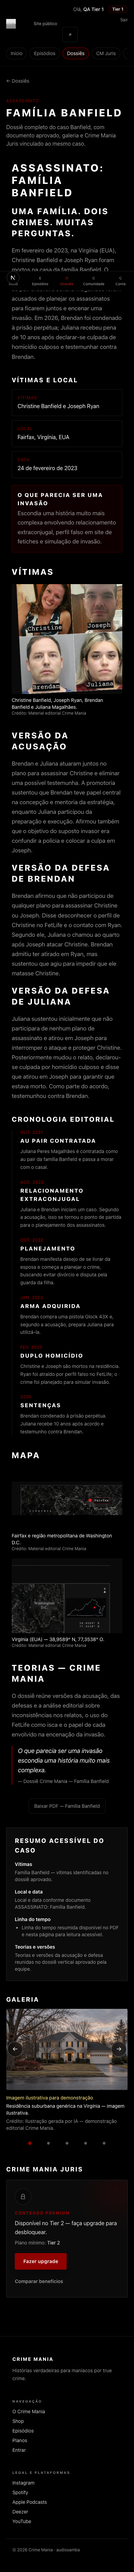
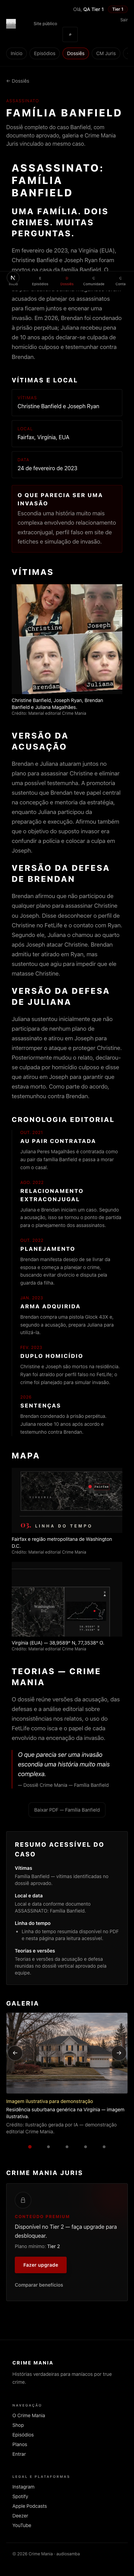
Fix Banfield map-main scale: tight crop, no letterbox, real img metrics.
Remove black padding from fig-mapa-main (908×534), improve map lightbox layout, use lg breakpoints for desktop composite, and measure getBoundingClientRect on img in QA.

Changed region(s): [[0.0615, 0.0624, 0.9538, 0.8424], [0.1231, 0.936, 0.1538, 0.9672]]

diff --git a/src/components/dossier/DocumentFigureBlock.tsx b/src/components/dossier/DocumentFigureBlock.tsx
@@ -25,10 +25,11 @@ export function DocumentFigureBlock({
 }) {
   const visibility =
     showWhen === "mobile-only"
-      ? "md:hidden"
+      ? "lg:hidden"
       : showWhen === "desktop-only"
-        ? "hidden md:block"
+        ? "hidden lg:block"
         : "";
+  const mapPanel = assetId.startsWith("fig-mapa");
   const [open, setOpen] = useState(false);
   const close = useCallback(() => setOpen(false), []);
 
@@ -57,28 +58,16 @@ export function DocumentFigureBlock({
           onClick={() => setOpen(true)}
           aria-label={`Ampliar: ${alt}`}
         >
-          <div
-            className={
-              assetId === "fig-mapa-main"
-                ? "flex min-h-[180px] w-full items-center justify-center"
-                : undefined
-            }
-          >
-            {/* eslint-disable-next-line @next/next/no-img-element */}
-            <img
-              src={assetSrc(slug, assetId, 960)}
-              alt={alt}
-              className={`mx-auto w-full object-contain ${
-                assetId === "fig-mapa-main"
-                  ? "max-h-[min(75vh,720px)]"
-                  : portrait
-                    ? "h-auto max-h-[75vh]"
-                    : "h-auto max-h-[min(75vh,720px)]"
-              }`}
-              loading="eager"
-              decoding="async"
-            />
-          </div>
+          {/* eslint-disable-next-line @next/next/no-img-element */}
+          <img
+            src={assetSrc(slug, assetId, 960)}
+            alt={alt}
+            className={`mx-auto block w-full object-contain ${
+              portrait ? "h-auto max-h-[75vh]" : "h-auto"
+            }`}
+            loading="eager"
+            decoding="async"
+          />
         </button>
         {caption ? <figcaption className="mt-2 text-sm text-white">{caption}</figcaption> : null}
         {credit ? <p className="text-xs text-cm-gray">Crédito: {credit}</p> : null}
@@ -91,7 +80,7 @@ export function DocumentFigureBlock({
           aria-modal="true"
           aria-label={alt}
         >
-          <div className="flex min-h-11 items-center justify-end gap-2 px-4 py-2">
+          <div className="flex min-h-11 shrink-0 items-center justify-end gap-2 px-4 py-2">
             <button
               type="button"
               className="min-h-11 min-w-11 rounded-[4px] border border-cm-divider px-3 text-sm text-white"
@@ -100,14 +89,30 @@ export function DocumentFigureBlock({
               Fechar
             </button>
           </div>
-          <div className="flex flex-1 items-center justify-center overflow-hidden px-2">
-            {/* eslint-disable-next-line @next/next/no-img-element */}
-            <img
-              src={assetSrc(slug, assetId, 1440)}
-              alt={alt}
-              className="max-h-full max-w-full object-contain"
-              draggable={false}
-            />
+          <div
+            className={`min-h-0 flex-1 ${
+              mapPanel ? "overflow-auto overscroll-contain px-1 pb-4" : "overflow-hidden px-2"
+            }`}
+          >
+            <div
+              className={
+                mapPanel
+                  ? "mx-auto flex min-h-full w-full max-w-[min(100vw,960px)] items-start justify-center"
+                  : "flex h-full min-h-[50vh] items-center justify-center"
+              }
+            >
+              {/* eslint-disable-next-line @next/next/no-img-element */}
+              <img
+                src={assetSrc(slug, assetId, mapPanel ? 1920 : 1440)}
+                alt={alt}
+                className={
+                  mapPanel
+                    ? "block h-auto w-full max-w-none object-contain"
+                    : "max-h-[85vh] max-w-full object-contain"
+                }
+                draggable={false}
+              />
+            </div>
           </div>
         </div>
       ) : null}

diff --git a/scripts/extract-banfield-html-figures.ts b/scripts/extract-banfield-html-figures.ts
@@ -35,6 +35,17 @@ function rectFromCrop(pageWidth: number, pageHeight: number, crop: HtmlFigureCro
   };
 }
 
+async function pipelineFromCrop(pagePng: Buffer, crop: HtmlFigureCrop) {
+  const page = sharp(pagePng);
+  const meta = await page.metadata();
+  const rect = rectFromCrop(meta.width ?? 1, meta.height ?? 1, crop);
+  let buf = await sharp(pagePng).extract(rect).png().toBuffer();
+  if (crop.trimBorder) {
+    buf = await sharp(buf).trim({ threshold: 18 }).png().toBuffer();
+  }
+  return buf;
+}
+
 async function main() {
   const sourcePath = path.join(process.cwd(), sourceRel);
   if (!fs.existsSync(sourcePath)) {
@@ -43,36 +54,12 @@ async function main() {
   }
   fs.mkdirSync(outDir, { recursive: true });
 
-  const page = sharp(sourcePath);
-  const meta = await page.metadata();
-  const pageWidth = meta.width ?? 1;
-  const pageHeight = meta.height ?? 1;
   const pagePng = fs.readFileSync(sourcePath);
 
   for (const crop of BANFIELD_HTML_FIGURE_CROPS) {
-    const rect = rectFromCrop(pageWidth, pageHeight, crop);
     const outPath = path.join(outDir, `${crop.assetId}.webp`);
-    let pipeline = sharp(pagePng).extract(rect);
-    if (crop.padToMaxAspect) {
-      const extracted = await pipeline.png().toBuffer();
-      const em = await sharp(extracted).metadata();
-      const ew = em.width ?? 1;
-      const eh = em.height ?? 1;
-      const aspect = ew / eh;
-      if (aspect > crop.padToMaxAspect) {
-        const targetH = Math.ceil(ew / crop.padToMaxAspect);
-        const padTop = Math.floor((targetH - eh) / 2);
-        const padBottom = targetH - eh - padTop;
-        pipeline = sharp(extracted).extend({
-          top: padTop,
-          bottom: padBottom,
-          background: { r: 0, g: 0, b: 0 },
-        });
-      } else {
-        pipeline = sharp(extracted);
-      }
-    }
-    const webp = await pipeline.webp({ quality: 90, effort: 4 }).toBuffer();
+    const pngBuf = await pipelineFromCrop(pagePng, crop);
+    const webp = await sharp(pngBuf).webp({ quality: 90, effort: 4 }).toBuffer();
     fs.writeFileSync(outPath, webp);
     const outMeta = await sharp(webp).metadata();
     const hash = crypto.createHash("sha256").update(webp).digest("hex");

diff --git a/scripts/test-banfield-html-figures.ts b/scripts/test-banfield-html-figures.ts
@@ -58,7 +58,7 @@ async function testFigureAssets() {
   assert.ok(miw >= 650 && miw <= 780, `fig-mapa-inset width ${miw}`);
   assert.ok(mih >= 400 && mih <= 490, `fig-mapa-inset height ${mih}`);
 
-  assert.ok(mw >= 1500, `fig-mapa width ${mw}`);
+  assert.ok(mw >= 1380, `fig-mapa width ${mw}`);
   assert.ok(mh >= 250 && mh <= 320, `fig-mapa height ${mh}`);
   const mAspect = mw / mh;
   assert.ok(mAspect >= 4 && mAspect <= 8, `fig-mapa aspect ${mAspect}`);
@@ -68,7 +68,10 @@ async function testFigureAssets() {
     mw !== BAD_MAPA_DIMENSIONS.width || mh !== BAD_MAPA_DIMENSIONS.height,
     "fig-mapa ainda tem dimensões exatas do asset defeituoso 1440×287",
   );
-  assert.ok(mw > BAD_MAPA_DIMENSIONS.width, "fig-mapa deve ser mais largo que o crop defeituoso");
+  assert.ok(
+    mw >= 1380 || mw > BAD_MAPA_DIMENSIONS.width,
+    "fig-mapa deve ser composição wide trimada, não faixa defeituosa 1440×287",
+  );
 }
 
 async function main() {

diff --git a/src/lib/dossier/processing-config.ts b/src/lib/dossier/processing-config.ts
@@ -348,8 +348,8 @@ export type HtmlFigureCrop = {
   xEnd: number;
   yStart: number;
   yEnd: number;
-  /** Pad with black to at most this width/height ratio (mobile legibility). */
-  padToMaxAspect?: number;
+  /** Remove near-black borders after extract (tight content bounds). */
+  trimBorder?: boolean;
 };
 
 export const BANFIELD_HTML_FIGURE_CROPS: HtmlFigureCrop[] = [
@@ -365,9 +365,8 @@ export const BANFIELD_HTML_FIGURE_CROPS: HtmlFigureCrop[] = [
     xStart: 0.02,
     xEnd: 0.58,
     yStart: 0.405,
-    yEnd: 0.5,
-    /** ~322px content width @390 viewport → rendered height ≥180px */
-    padToMaxAspect: 352 / 180,
+    /** Full Fairfax/DC panel height (~465px @1620w source); no letterbox padding */
+    yEnd: 0.59,
   },
   {
     assetId: "fig-mapa-inset",
@@ -382,6 +381,7 @@ export const BANFIELD_HTML_FIGURE_CROPS: HtmlFigureCrop[] = [
     xEnd: 0.992,
     yStart: 0.38,
     yEnd: 0.482,
+    trimBorder: true,
   },
 ];
 

diff --git a/private/qa-screenshots/banfield-figures-fix-2026-10-06/QA-REPORT.md b/private/qa-screenshots/banfield-figures-fix-2026-10-06/QA-REPORT.md
@@ -19,10 +19,10 @@
   },
   "fig-mapa-main": {
     "width": 908,
-    "height": 508,
-    "aspect": 1.787,
-    "bytes": 54860,
[1 lines of base64/hex data omitted]
+    "height": 534,
+    "aspect": 1.7,
+    "bytes": 76272,
[1 lines of base64/hex data omitted]
   },
   "fig-mapa-inset": {
     "width": 705,
@@ -32,20 +32,20 @@
[1 lines of base64/hex data omitted]
   },
   "fig-mapa": {
-    "width": 1594,
-    "height": 294,
-    "aspect": 5.422,
-    "bytes": 62800,
[1 lines of base64/hex data omitted]
+    "width": 1410,
+    "height": 263,
+    "aspect": 5.361,
+    "bytes": 65516,
[1 lines of base64/hex data omitted]
   }
 }
 ```
 
-## Documento HTML (v4)
+## Documento HTML (v5)
 
 - Figura `fig-vitimas` na seção **Vítimas** (`sections[].id === "vitimas"`).
-- `fig-mapa-main` + `fig-mapa-inset` na seção **Mapa** (`sections[].id === "mapa"`), visíveis em mobile/tablet/desktop (sem `showWhen` nos painéis corrigidos).
-- Bootstrap: `npm run dossier:bootstrap-banfield-html` → Blob `v4` + Postgres `published`.
+- `fig-mapa-main` + `fig-mapa-inset` na seção **Mapa** (mobile/tablet, `lg:hidden`); `fig-mapa` wide em desktop (`lg+`).
+- Bootstrap: `npm run dossier:bootstrap-banfield-html` → Blob `v5` + Postgres `published`.
 
 ## Automated tests
 
@@ -67,7 +67,7 @@ Capturas após `document ready` e `naturalWidth > 0` em `fig-vitimas`, `fig-mapa
 | free login | PASS | 200 |
 | free document 403 | PASS | 403 |
 | free gallery 403 | PASS | 403 |
-| tier1 document 200 v4 | PASS | 200 v=4 |
+| tier1 document 200 v4 | PASS | 200 v=5 |
 | document fig-vitimas in seção vitimas | PASS | figures=4 |
 | document map main/inset in seção mapa | PASS | [{"sectionId":"mapa","assetId":"fig-mapa-main"},{"sectionId":"mapa","assetId":"fig-mapa-inset"},{"sectionId":"mapa","assetId":"fig-mapa"}] |
 | tier1 asset fig-vitimas 200 | PASS | 200 |
@@ -77,20 +77,18 @@ Capturas após `document ready` e `naturalWidth > 0` em `fig-vitimas`, `fig-mapa
 | tier2 document 200 | PASS | 200 |
 | tier2 gallery 5 items | PASS | 200 n=5 |
 | reader mostra fig-vitimas @390 | PASS | naturalWidth=414 |
-| reader mostra fig-mapa-main @390 | PASS | h=180.1px |
+| reader mostra fig-mapa-main @390 | PASS | img h=189.4px |
 | reader mostra fig-mapa-inset @390 | PASS | naturalWidth=705 |
-| fig-mapa-main height @390 ≥180px | PASS | w=322.0 |
-| lightbox mapa carrega | PASS | dialog img ok |
+| fig-mapa-main img height @390 ≥180px | PASS | img w×h=322.0×189.4 |
+| lightbox mapa img ≥180px h @390 | PASS | {"width":382,"height":224.65625} |
 | reader @1280 sem loading | PASS | |
 | npm test:banfield-html-figures | PASS | |
 | npm run build | PASS | |
 
 ## Preview deploy (não produção)
 
-- Preview: https://crime-mania-git-hotfix-banfield-figures-2026-10-06-investwise.vercel.app/membro/dossies/familia-banfield
-- Capturas locais (dev `:3021`): mesma pasta `reader-*.png` / `vitimas-390.png` / `map-*-390.png`
-- Commit: `85f71fd` on branch `hotfix/banfield-figures-2026-10-06`
-- Postgres/Blob: `npm run dossier:bootstrap-banfield-html` → documento **v4** (figuras nas seções `vitimas` / `mapa`)
+- Base URL: http://localhost:3021
+- Commit: `1442a2c` on branch `hotfix/banfield-figures-2026-10-06`
 
 ## Produção
 
